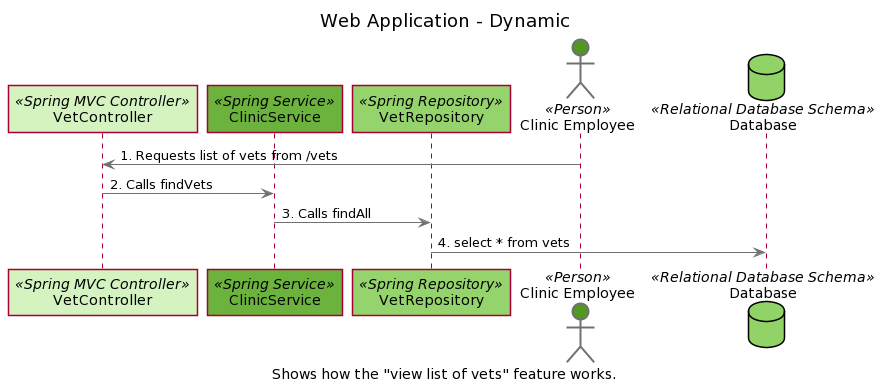
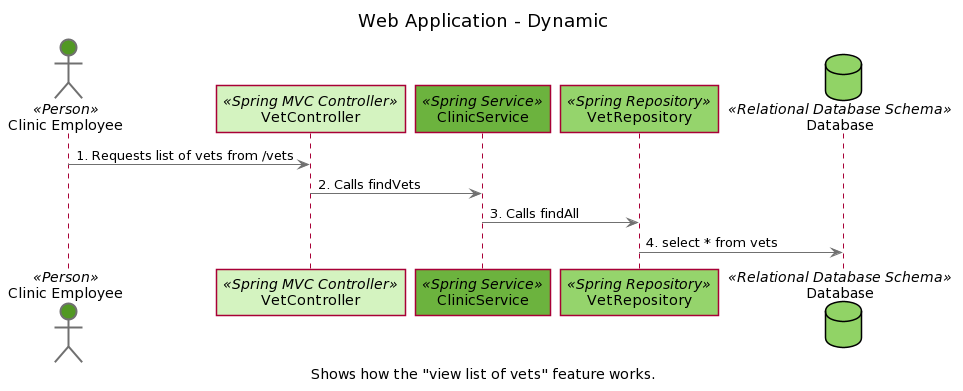
Updated example diagrams.

diff --git a/index.html b/index.html
@@ -204,17 +204,19 @@ view.addNearestNeighbours(softwareSystem);</code></pre>
                 <div class="row">
                     <div class="col-sm-6 centered">
                         <img src="./img/code-output-5.png" alt="PlantUML" class="img-thumbnail" /></a>
+                        <br /><br />
+                        <img src="./img/code-output-6.png" alt="PlantUML" class="img-thumbnail" /></a>
                         <p class="smaller" style="margin-top: 5px">
                             PlantUML
                         </p>
 
-                        <img src="./img/code-output-6.png" alt="WebSequenceDiagrams" class="img-thumbnail" /></a>
+                        <img src="./img/code-output-7.png" alt="WebSequenceDiagrams" class="img-thumbnail" /></a>
                         <p class="smaller" style="margin-top: 5px">
                             WebSequenceDiagrams
                         </p>
                     </div>
                     <div class="col-sm-6 centered">            
-                        <img src="./img/code-output-7.png" alt="Structurizr" class="img-thumbnail" /></a>
+                        <img src="./img/code-output-8.png" alt="Structurizr" class="img-thumbnail" /></a>
                         <p class="smaller" style="margin-top: 5px">
                             <a href="https://structurizr.com/share/1/diagrams#viewListOfVets" target="_blank">Structurizr (dynamic diagram)</a>
                         </p>
